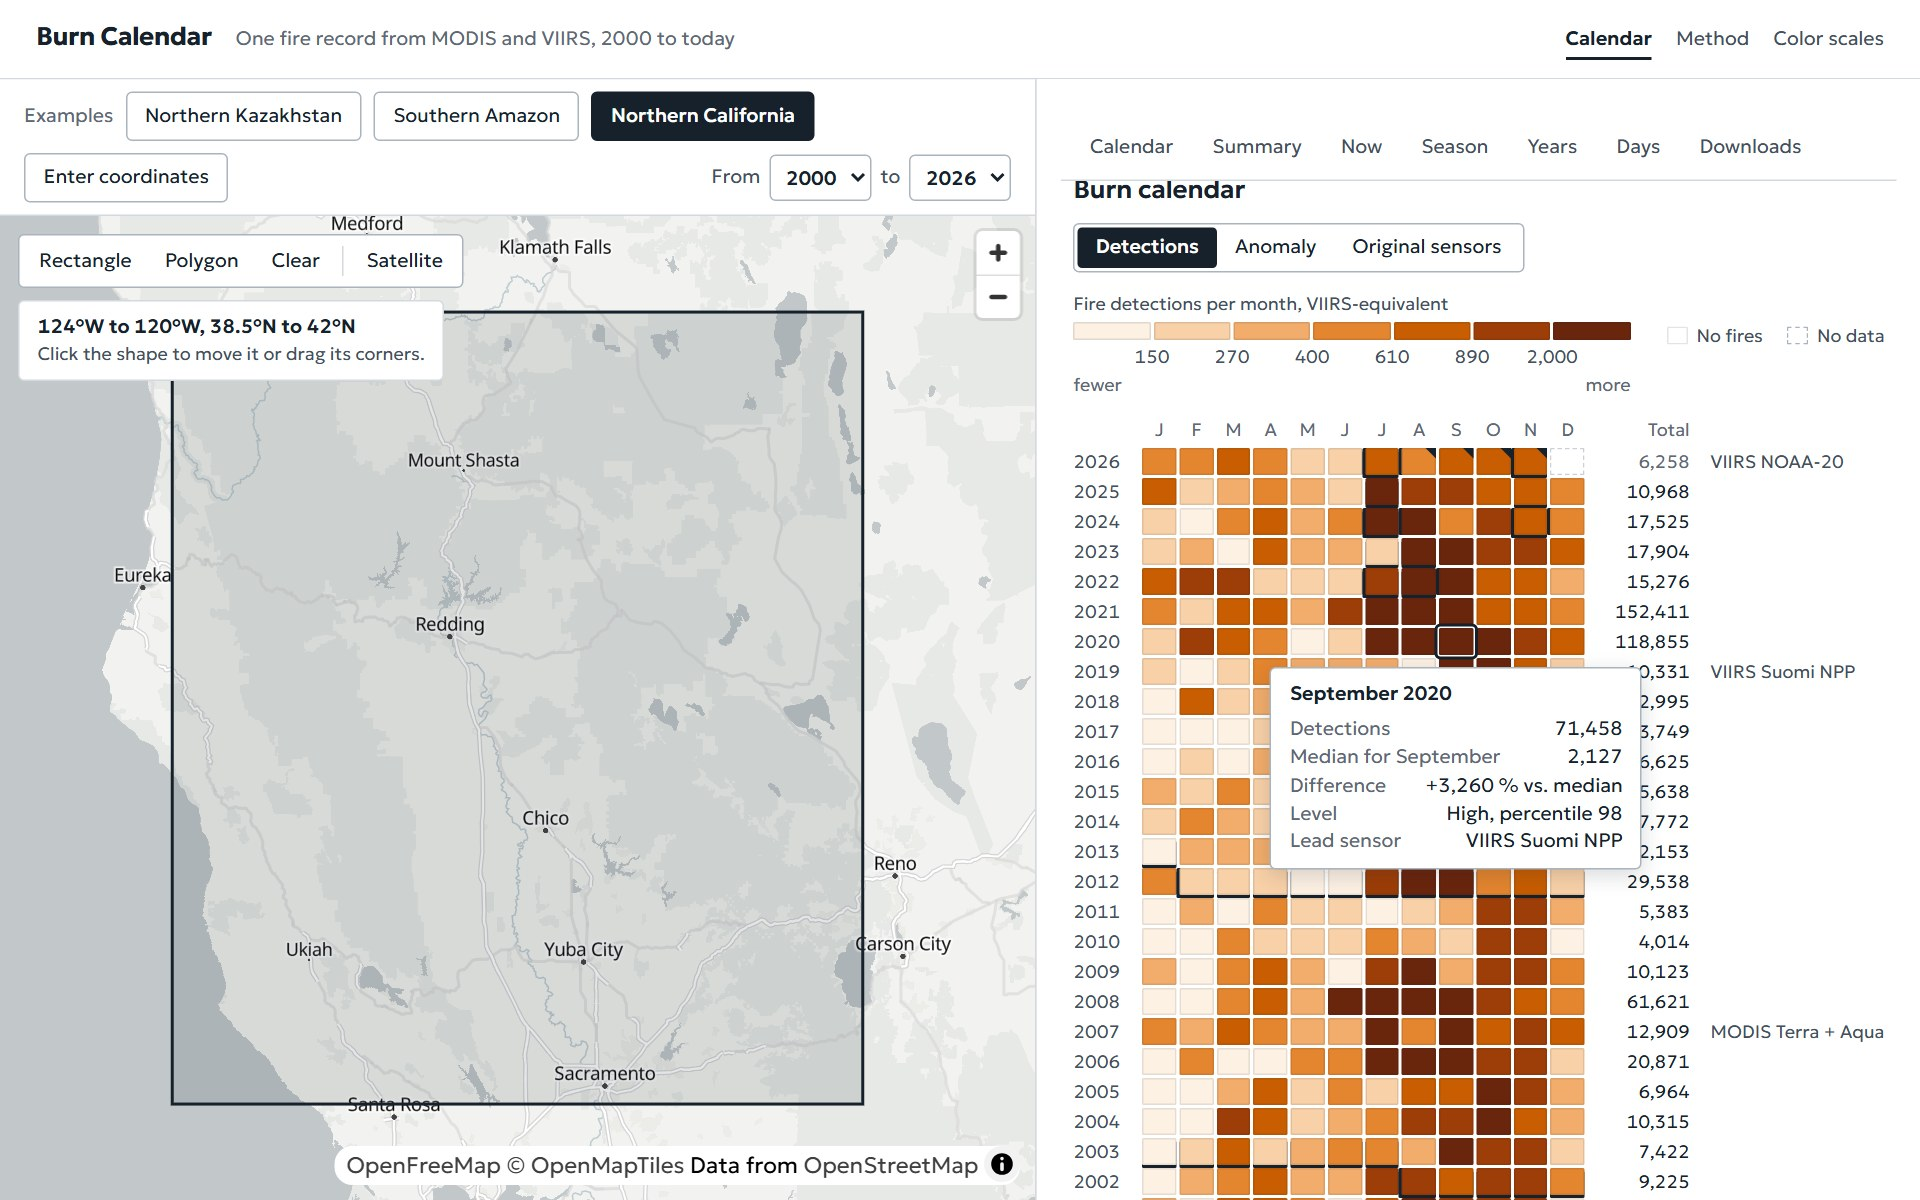
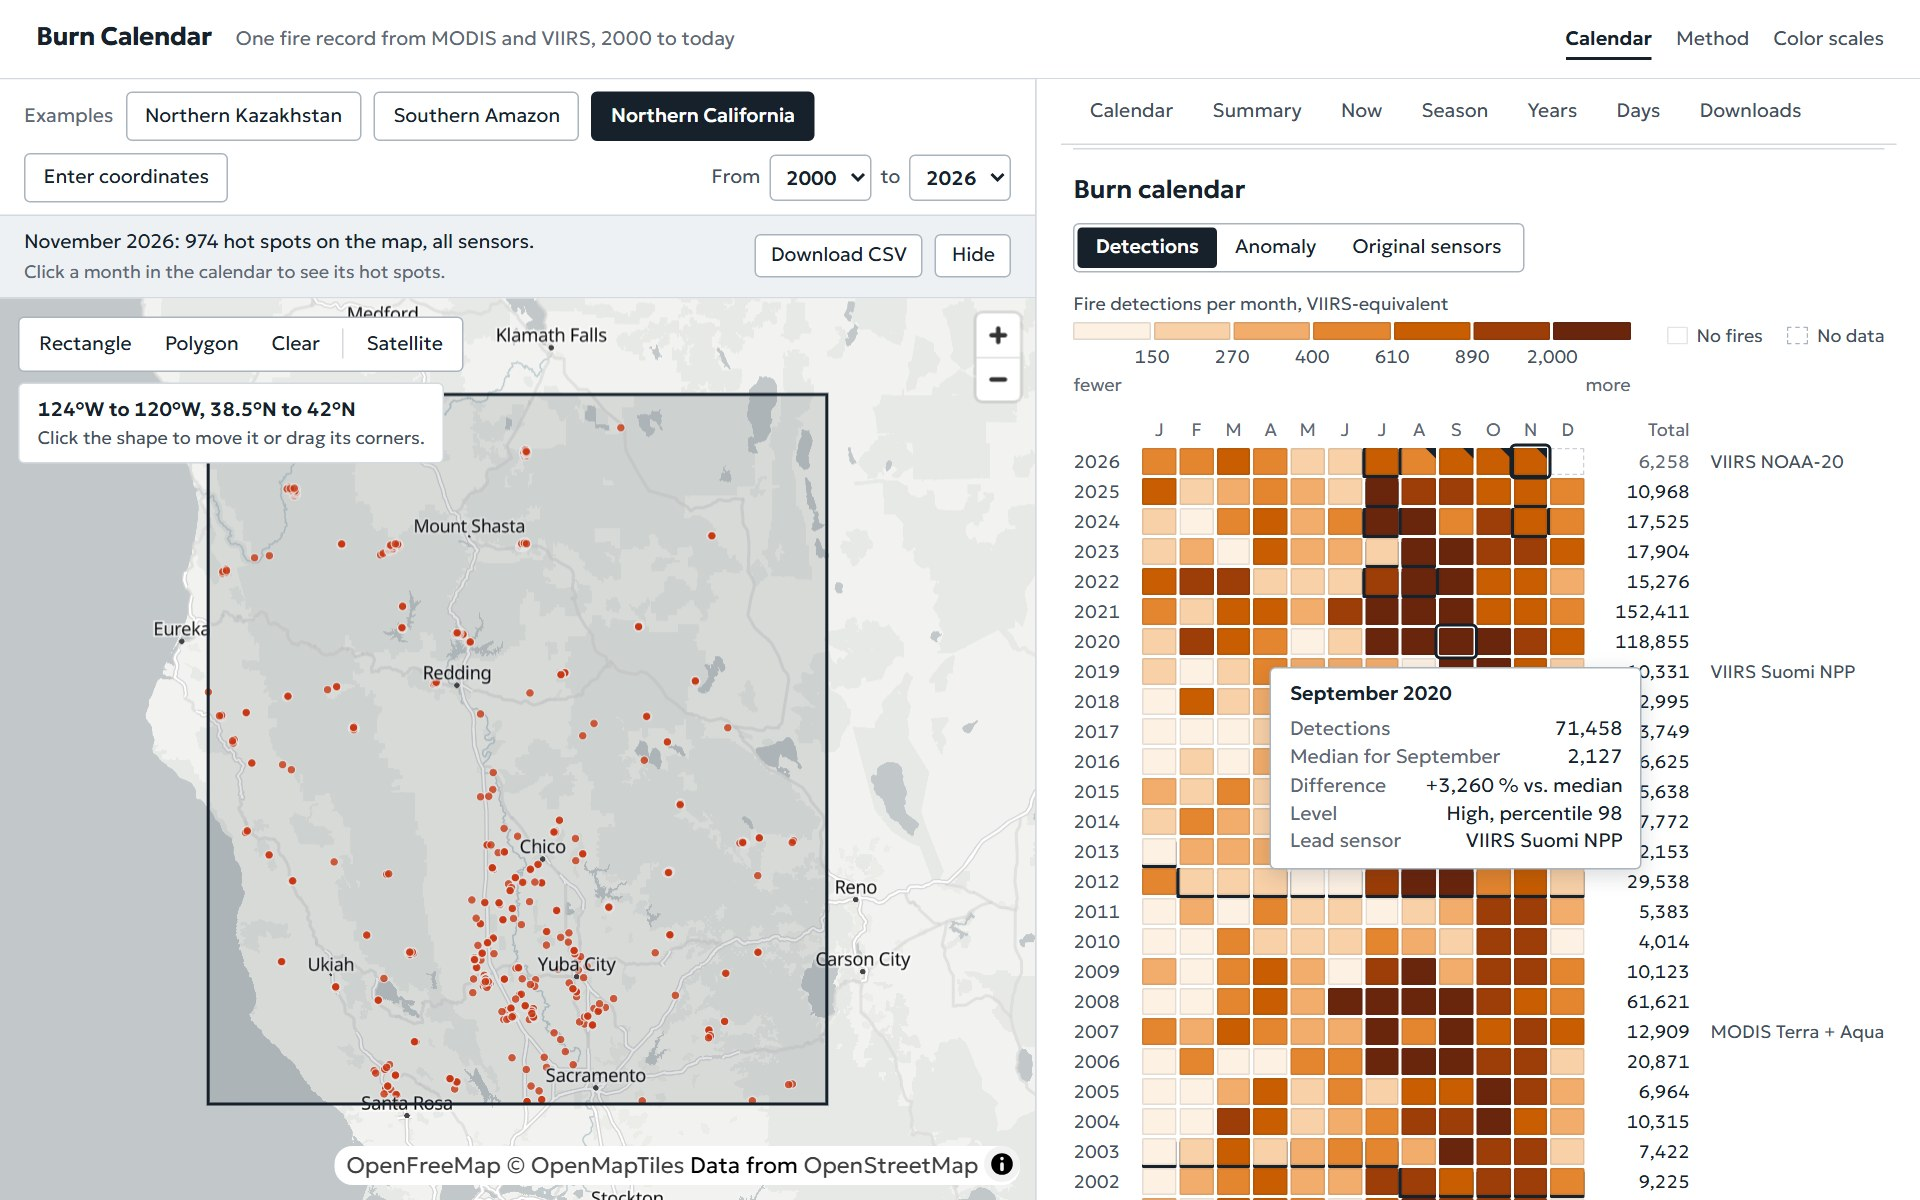
frontend: compact strip of the hot spots, clearer dots, quiet failure
On top of the hot spots that appear as soon as an area opens:

- The strip above the map is one line high: the count and a hint on the
  left, short buttons on the right. The map is told its new height before
  the view is fitted, so the area is no longer cut at the bottom.
- Dots are red with a white rim and a little larger: visible on the light
  basemap and on the satellite imagery alike.
- The month the app chose itself stays quiet when its points cannot be
  loaded; a month the user picked still gets its message.

Demo frames are retaken.

diff --git a/frontend/src/screens/CalendarScreen.test.tsx b/frontend/src/screens/CalendarScreen.test.tsx
@@ -202,6 +202,49 @@ describe('hot spots of a month on the map (F13)', () => {
     expect(bodies.at(-1)).toMatchObject({ year: 2019, month: 7 });
   });
 
+  it('says how to pick another month next to the count', async () => {
+    const user = userEvent.setup();
+    renderScreen();
+    await openArea(user);
+
+    await screen.findByText(/^October 2026: /);
+    expect(
+      screen.getByText('Click a month in the calendar to see its hot spots.'),
+    ).toBeInTheDocument();
+  });
+
+  it('stays quiet when the month nobody asked for cannot be loaded', async () => {
+    const user = userEvent.setup();
+    server.use(
+      http.post('*/api/v1/points', () =>
+        HttpResponse.json(
+          { error: { code: 'INTERNAL', message: 'Points are not available.' } },
+          { status: 500 },
+        ),
+      ),
+    );
+    renderScreen();
+    await openArea(user);
+
+    // The calendar is there, and no error about points the user never asked for.
+    await screen.findByRole('region', { name: 'Now' });
+    const map = screen.getByRole('region', { name: 'Area selection' });
+    await waitFor(() => expect(within(map).queryByText(/^Loading the hot spots/)).toBeNull());
+    expect(within(map).queryByRole('alert')).toBeNull();
+    expect(screen.queryByRole('button', { name: 'Hide hot spots' })).toBeNull();
+    expect(screen.getByTestId('map')).toHaveAttribute('data-points', 'none');
+  });
+
+  it('does not ask for points of an area above the size limit', async () => {
+    const bodies = record('/points', pointsExample);
+    window.location.hash = '#/?poly=-60,-40;60,-40;60,40;-60,40';
+    renderScreen();
+
+    await screen.findByText(/The limit is 3,000,000 km²/);
+    expect(bodies).toHaveLength(0);
+    expect(screen.queryByRole('button', { name: 'Hide hot spots' })).toBeNull();
+  });
+
   it('keeps the calendar when the points cannot be loaded', async () => {
     const user = userEvent.setup();
     server.use(

diff --git a/frontend/src/map/engine.ts b/frontend/src/map/engine.ts
@@ -16,7 +16,8 @@ const SATELLITE_LAYER = 'nasa-blue-marble';
 
 /** The hot spots of the month chosen on the calendar (requirement F13). */
 const HOTSPOT_LAYER = 'hot-spots';
-const HOTSPOT_COLOR = '#c85d02';
+// A red that stays visible on the light basemap and on the satellite imagery alike.
+const HOTSPOT_COLOR = '#e03a0e';
 const NO_POINTS = { type: 'FeatureCollection' as const, features: [] };
 
 /** Used when the basemap style cannot be fetched: a plain surface the user can still draw on. */
@@ -146,12 +147,13 @@ export async function createAreaMapEngine(
       source: HOTSPOT_LAYER,
       paint: {
         // A dot stands for one detection, not for its footprint: it only grows enough to stay visible.
-        'circle-radius': ['interpolate', ['linear'], ['zoom'], 3, 1.5, 7, 2.5, 11, 4.5],
+        'circle-radius': ['interpolate', ['linear'], ['zoom'], 3, 2, 7, 3, 11, 5],
         'circle-color': HOTSPOT_COLOR,
-        'circle-opacity': 0.7,
+        'circle-opacity': 0.8,
+        // The white rim separates a dot from dark imagery and from the dots around it.
         'circle-stroke-color': WHITE,
-        'circle-stroke-width': 0.5,
-        'circle-stroke-opacity': 0.6,
+        'circle-stroke-width': 0.75,
+        'circle-stroke-opacity': 0.8,
       },
     },
     firstLabelLayer,
@@ -276,6 +278,10 @@ export async function createAreaMapEngine(
         if (rejected) console.warn('The area could not be shown on the map:', rejected.reason);
 
         if (fit) {
+          // The strip of the hot spots appears above the map together with the area. The
+          // map learns its new height a moment later, so it is told now: otherwise the
+          // view would be fitted to the old height and the area would be cut at the bottom.
+          map.resize();
           const { west, south, east, north } = boundsOf(geometry);
           map.fitBounds(
             [

diff --git a/frontend/src/screens/CalendarScreen.tsx b/frontend/src/screens/CalendarScreen.tsx
@@ -382,9 +382,15 @@ function Workspace({ meta }: { meta: Meta }) {
       ? { geometry: shownSpots.geometry, year: shownSpots.year, month: shownSpots.month }
       : null,
   );
-  const spotsId = shownSpots
-    ? `${shownSpots.year}-${String(shownSpots.month).padStart(2, '0')}`
-    : null;
+  // The month nobody asked for stays quiet when it cannot be loaded: the calendar already
+  // reports a server that cannot be reached, and the saved demo data has no single
+  // detections. A month the user picked still gets its message.
+  const pickedSpots = spots !== null && spots.geometry === area?.geometry;
+  const spotsVisible = shownSpots !== null && (pickedSpots || !points.isError);
+  const spotsId =
+    shownSpots && spotsVisible
+      ? `${shownSpots.year}-${String(shownSpots.month).padStart(2, '0')}`
+      : null;
   /** A click on the chosen month hides its hot spots again. */
   const toggleSpots = (month: MonthValue) => {
     if (!area) return;
@@ -448,7 +454,7 @@ function Workspace({ meta }: { meta: Meta }) {
             />
           </div>
         )}
-        {shownSpots && area && (
+        {shownSpots && spotsVisible && area && (
           <SpotsBar
             geometry={shownSpots.geometry}
             presetId={area.presetId}
@@ -465,7 +471,7 @@ function Workspace({ meta }: { meta: Meta }) {
         <div className={styles.mapSlot}>
           <AreaMap
             geometry={area?.geometry ?? null}
-            points={shownSpots ? (points.data ?? null) : null}
+            points={spotsVisible ? (points.data ?? null) : null}
             // A shape drawn or edited on the map is no longer an example area.
             onChange={(geometry) => setArea(geometry ? { geometry, presetId: null } : null)}
           />

diff --git a/frontend/src/components/SpotsBar.tsx b/frontend/src/components/SpotsBar.tsx
@@ -60,20 +60,30 @@ export function SpotsBar({
       {error ? (
         <ErrorNote error={error} onRetry={onRetry} retrying={retrying} />
       ) : (
-        <p role="status">
-          {points
-            ? spotsSummary(points, year, month)
-            : `Loading the hot spots of ${monthName(month)} ${year}…`}
-        </p>
+        <div className={styles.text}>
+          <p role="status">
+            {points
+              ? spotsSummary(points, year, month)
+              : `Loading the hot spots of ${monthName(month)} ${year}…`}
+          </p>
+          <p className={styles.hint}>Click a month in the calendar to see its hot spots.</p>
+        </div>
       )}
       <div className={styles.actions}>
         {points && points.total > 0 && (
-          <button type="button" onClick={() => void save()} disabled={saving} aria-busy={saving}>
-            {saving ? 'Preparing…' : 'Download this month (CSV)'}
+          <button
+            type="button"
+            onClick={() => void save()}
+            disabled={saving}
+            aria-busy={saving}
+            // Short on screen, so the strip stays one line high; said in full to a screen reader.
+            aria-label={saving ? undefined : 'Download CSV of this month'}
+          >
+            {saving ? 'Preparing…' : 'Download CSV'}
           </button>
         )}
-        <button type="button" onClick={onHide}>
-          Hide hot spots
+        <button type="button" onClick={onHide} aria-label="Hide hot spots">
+          Hide
         </button>
       </div>
       {failure && <ErrorNote error={failure} />}

diff --git a/frontend/src/screens/CalendarScreen.ux.test.tsx b/frontend/src/screens/CalendarScreen.ux.test.tsx
@@ -306,7 +306,7 @@ describe('the hot spots of a month as a file', () => {
     await openArea(user);
 
     await user.click(container.querySelector('[data-month="2020-09"]') as HTMLElement);
-    await user.click(await screen.findByRole('button', { name: 'Download this month (CSV)' }));
+    await user.click(await screen.findByRole('button', { name: 'Download CSV of this month' }));
 
     await waitFor(() => expect(saved.files).toHaveLength(1));
     expect(bodies[0]).toMatchObject({ start_date: '2020-09-01', end_date: '2020-09-30' });
@@ -326,7 +326,7 @@ describe('the hot spots of a month as a file', () => {
     await user.click(container.querySelector('[data-month="2020-01"]') as HTMLElement);
 
     expect(await screen.findByText('No hot spots in January 2020.')).toBeInTheDocument();
-    expect(screen.queryByRole('button', { name: 'Download this month (CSV)' })).toBeNull();
+    expect(screen.queryByRole('button', { name: 'Download CSV of this month' })).toBeNull();
   });
 
   it('says how many of the hot spots are drawn', () => {

diff --git a/frontend/src/components/SpotsBar.module.css b/frontend/src/components/SpotsBar.module.css
@@ -1,7 +1,8 @@
 /* The hot spots that are on the map: what they are, their file, and the way to remove them. */
 .bar {
   display: flex;
-  flex-wrap: wrap;
+  /* The buttons stay next to the text: a strip of one height does not push the map around. */
+  flex-wrap: nowrap;
   gap: var(--space-2) var(--space-3);
   align-items: center;
   justify-content: space-between;
@@ -13,8 +14,12 @@
 
 .actions {
   display: flex;
-  flex-wrap: wrap;
+  flex: none;
   gap: var(--space-2);
+}
+
+.bar button {
+  white-space: nowrap;
 }
 
 .bar button {
@@ -32,4 +37,14 @@
 
 .bar button:disabled {
   cursor: progress;
+}
+
+.text {
+  display: grid;
+  gap: 2px;
+}
+
+.hint {
+  color: var(--muted);
+  font-size: var(--text-xs);
 }
